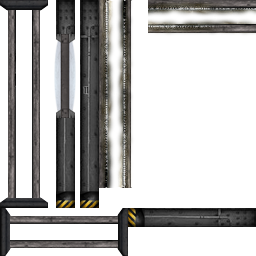
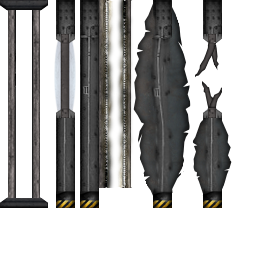
- Added sprites for damaged doors. - Fixed destroyed doors being impossible to repair because the repair tool raycasts wouldn't hit the disabled body of the door. - Destroyed doors don't cast shadows and the body isn't re-enabled until the door is restored to 50% health.

Changed region(s): [[0.0, 0.0, 1.0, 1.0]]

diff --git a/Barotrauma/BarotraumaShared/Source/Items/Components/Door.cs b/Barotrauma/BarotraumaShared/Source/Items/Components/Door.cs
@@ -25,7 +25,8 @@ namespace Barotrauma.Items.Components
 
         private PhysicsBody body;
 
-        private Sprite doorSprite, weldedSprite;
+        private Sprite doorSprite, weldedSprite, brokenSprite;
+        private bool scaleBrokenSprite, fadeBrokenSprite;
 
         private bool isHorizontal;
 
@@ -33,6 +34,28 @@ namespace Barotrauma.Items.Components
         
         private bool? predictedState;
         private float resetPredictionTimer;
+
+        private Rectangle doorRect;
+
+        private bool isBroken;
+
+        public bool IsBroken
+        {
+            get { return isBroken; }
+            set
+            {
+                if (isBroken == value) return;
+                isBroken = value;
+                if (isBroken)
+                {
+                    DisableBody();
+                }
+                else
+                {
+                    EnableBody();
+                }
+            }
+        }
 
         public PhysicsBody Body
         {
@@ -45,7 +68,7 @@ namespace Barotrauma.Items.Components
             get { return stuck; }
             set 
             {
-                if (isOpen) return;
+                if (isOpen || isBroken) return;
                 stuck = MathHelper.Clamp(value, 0.0f, 100.0f);
                 if (stuck == 0.0f) isStuck = false;
                 if (stuck == 100.0f) isStuck = true;
@@ -117,8 +140,6 @@ namespace Barotrauma.Items.Components
                 OpenState = (isOpen) ? 1.0f : 0.0f;
             }
         }
-
-        private Rectangle doorRect;
                 
         public float OpenState
         {
@@ -139,11 +160,8 @@ namespace Barotrauma.Items.Components
         public Door(Item item, XElement element)
             : base(item, element)
         {
-            //Vector2 position = new Vector2(newRect.X, newRect.Y);
-
             isHorizontal = element.GetAttributeBool("horizontal", false);
-
-           // isOpen = false;
+            
             foreach (XElement subElement in element.Elements())
             {
                 string texturePath = subElement.GetAttributeString("texture", "");
@@ -154,6 +172,11 @@ namespace Barotrauma.Items.Components
                         break;
                     case "weldedsprite":
                         weldedSprite = new Sprite(subElement, texturePath.Contains("/") ? "" : Path.GetDirectoryName(item.Prefab.ConfigFile));
+                        break;
+                    case "brokensprite":
+                        brokenSprite = new Sprite(subElement, texturePath.Contains("/") ? "" : Path.GetDirectoryName(item.Prefab.ConfigFile));
+                        scaleBrokenSprite = subElement.GetAttributeBool("scale", false);
+                        fadeBrokenSprite = subElement.GetAttributeBool("fade", false);
                         break;
                 }
             }
@@ -177,9 +200,6 @@ namespace Barotrauma.Items.Components
                 ConvertUnits.ToSimUnits(new Vector2(doorRect.Center.X, doorRect.Y - doorRect.Height / 2)),
                 0.0f);
             body.Friction = 0.5f;
-
-
-            //string spritePath = Path.GetDirectoryName(item.Prefab.ConfigFile) + "\\"+ ToolBox.GetAttributeString(element, "sprite", "");
             
             IsActive = true;
         }
@@ -187,17 +207,12 @@ namespace Barotrauma.Items.Components
         public override void Move(Vector2 amount)
         {
             base.Move(amount);
-
-            //LinkedGap.Move(amount);
-
+            
             body.SetTransform(body.SimPosition + ConvertUnits.ToSimUnits(amount), 0.0f);
 
 #if CLIENT
             UpdateConvexHulls();
 #endif
-
-            //convexHull.Move(amount);
-            //if (convexHull2 != null) convexHull2.Move(amount);
         }
 
 
@@ -216,17 +231,27 @@ namespace Barotrauma.Items.Components
 
         public override void Update(float deltaTime, Camera cam)
         {
+            if (isBroken)
+            {
+                //the door has to be restored to 50% health before collision detection on the body is re-enabled
+                if (item.Condition > 50.0f)
+                {
+                    IsBroken = false;
+                }
+                return;
+            }
+
             bool isClosing = false;
             if (!isStuck)
             {
                 if (predictedState == null)
                 {
-                    OpenState += deltaTime * ((isOpen) ? 2.0f : -2.0f);
+                    OpenState += deltaTime * (isOpen ? 2.0f : -2.0f);
                     isClosing = openState > 0.0f && openState < 1.0f && !isOpen;
                 }
                 else
                 {
-                    OpenState += deltaTime * (((bool)predictedState) ? 2.0f : -2.0f);
+                    OpenState += deltaTime * ((bool)predictedState ? 2.0f : -2.0f);
                     isClosing = openState > 0.0f && openState < 1.0f && !(bool)predictedState;
 
                     resetPredictionTimer -= deltaTime;
@@ -252,14 +277,34 @@ namespace Barotrauma.Items.Components
             //other items to an incorrect state if the prediction is wrong
             item.SendSignal(0, (isOpen) ? "1" : "0", "state_out", null);
         }
-
+        
         public override void UpdateBroken(float deltaTime, Camera cam)
         {
-            body.Enabled = false;
-
-            linkedGap.Open = 1.0f;
+            IsBroken = true;
         }
-        
+
+        private void EnableBody()
+        {
+            body.FarseerBody.IsSensor = false;
+#if CLIENT
+            UpdateConvexHulls();
+#endif
+            isBroken = false;
+        }
+
+        private void DisableBody()
+        {
+            //change the body to a sensor instead of disabling it completely, 
+            //because otherwise repairtool raycasts won't hit it
+            body.FarseerBody.IsSensor = true;
+            linkedGap.Open = 1.0f;
+            IsOpen = false;
+#if CLIENT
+            if (convexHull != null) convexHull.Enabled = false;
+            if (convexHull2 != null) convexHull2.Enabled = false;
+#endif
+        }
+
         public override void OnMapLoaded()
         {
             LinkedGap.ConnectedDoor = this;
@@ -280,19 +325,19 @@ namespace Barotrauma.Items.Components
             base.RemoveComponentSpecific();
 
             if (body != null)
-            {                
+            {
                 body.Remove();
                 body = null;
             }
 
 
-            if (linkedGap!=null) linkedGap.Remove();
+            if (linkedGap != null) linkedGap.Remove();
 
             doorSprite.Remove();
             if (weldedSprite != null) weldedSprite.Remove();
 
 #if CLIENT
-            if (convexHull!=null) convexHull.Remove();
+            if (convexHull != null) convexHull.Remove();
             if (convexHull2 != null) convexHull2.Remove();
 #endif
         }
@@ -398,8 +443,8 @@ namespace Barotrauma.Items.Components
             {
                 //clients can "predict" that the door opens/closes when a signal is received
 
-//the prediction will be reset after 1 second, setting the door to a state
-//sent by the server, or reverting it back to its old state if no msg from server was received
+                //the prediction will be reset after 1 second, setting the door to a state
+                //sent by the server, or reverting it back to its old state if no msg from server was received
 
 #if CLIENT
                 if (open != predictedState) PlaySound(ActionType.OnUse, item.WorldPosition);
@@ -437,7 +482,7 @@ namespace Barotrauma.Items.Components
         {
             SetState(msg.ReadBoolean(), true);
             Stuck = msg.ReadRangedSingle(0.0f, 100.0f, 8);
-
+            
             predictedState = null;
         }
     }

diff --git a/Barotrauma/BarotraumaClient/Source/Items/Components/Door.cs b/Barotrauma/BarotraumaClient/Source/Items/Components/Door.cs
@@ -87,11 +87,7 @@ namespace Barotrauma.Items.Components
         public void Draw(SpriteBatch spriteBatch, bool editing)
         {
             Color color = (item.IsSelected) ? Color.Green : Color.White;
-            color = color * (item.Condition / item.Prefab.Health);
-            color.A = 255;
-
-            //prefab.sprite.Draw(spriteBatch, new Vector2(rect.X, -rect.Y), new Vector2(rect.Width, rect.Height), color);
-
+            
             if (stuck > 0.0f && weldedSprite != null)
             {
                 Vector2 weldSpritePos = new Vector2(item.Rect.Center.X, item.Rect.Y - item.Rect.Height / 2.0f);
@@ -114,10 +110,25 @@ namespace Barotrauma.Items.Components
                 if (item.Submarine != null) pos += item.Submarine.DrawPosition;
                 pos.Y = -pos.Y;
 
-                spriteBatch.Draw(doorSprite.Texture, pos,
-                    new Rectangle((int)(doorSprite.SourceRect.X + doorSprite.size.X * openState), (int)doorSprite.SourceRect.Y,
-                     (int)(doorSprite.size.X * (1.0f - openState)), (int)doorSprite.size.Y),
-                    color, 0.0f, doorSprite.Origin, 1.0f, SpriteEffects.None, doorSprite.Depth);
+                if (brokenSprite == null || item.Health > 0.0f)
+                {
+                    spriteBatch.Draw(doorSprite.Texture, pos,
+                        new Rectangle((int) (doorSprite.SourceRect.X + doorSprite.size.X * openState),
+                            (int) doorSprite.SourceRect.Y,
+                            (int) (doorSprite.size.X * (1.0f - openState)), (int) doorSprite.size.Y),
+                        color, 0.0f, doorSprite.Origin, 1.0f, SpriteEffects.None, doorSprite.Depth);
+                }
+
+                if (brokenSprite != null && item.Health < item.Prefab.Health)
+                {
+                    Vector2 scale = scaleBrokenSprite ? new Vector2(1.0f, 1.0f - item.Health / item.Prefab.Health) : Vector2.One;
+                    float alpha = fadeBrokenSprite ? 1.0f - item.Health / item.Prefab.Health : 1.0f;
+                    spriteBatch.Draw(brokenSprite.Texture, pos,
+                        new Rectangle((int)(brokenSprite.SourceRect.X + brokenSprite.size.X * openState), brokenSprite.SourceRect.Y,
+                            (int)(brokenSprite.size.X * (1.0f - openState)), (int)brokenSprite.size.Y),
+                        color * alpha, 0.0f, brokenSprite.Origin, scale, SpriteEffects.None,
+                        brokenSprite.Depth);
+                }
             }
             else
             {
@@ -125,10 +136,25 @@ namespace Barotrauma.Items.Components
                 if (item.Submarine != null) pos += item.Submarine.DrawPosition;
                 pos.Y = -pos.Y;
 
-                spriteBatch.Draw(doorSprite.Texture, pos,
-                    new Rectangle(doorSprite.SourceRect.X, (int)(doorSprite.SourceRect.Y + doorSprite.size.Y * openState),
-                    (int)doorSprite.size.X, (int)(doorSprite.size.Y * (1.0f - openState))),
-                    color, 0.0f, doorSprite.Origin, 1.0f, SpriteEffects.None, doorSprite.Depth);
+                if (brokenSprite == null || item.Health > 0.0f)
+                {
+                    spriteBatch.Draw(doorSprite.Texture, pos,
+                        new Rectangle(doorSprite.SourceRect.X,
+                            (int) (doorSprite.SourceRect.Y + doorSprite.size.Y * openState),
+                            (int) doorSprite.size.X, (int) (doorSprite.size.Y * (1.0f - openState))),
+                        color, 0.0f, doorSprite.Origin, 1.0f, SpriteEffects.None, doorSprite.Depth);
+                }
+
+                if (brokenSprite != null && item.Health < item.Prefab.Health)
+                {
+                    Vector2 scale = scaleBrokenSprite ? new Vector2(1.0f - item.Health / item.Prefab.Health, 1.0f) : Vector2.One;
+                    float alpha = fadeBrokenSprite ? 1.0f - item.Health / item.Prefab.Health : 1.0f;
+                    spriteBatch.Draw(brokenSprite.Texture, pos,
+                        new Rectangle(brokenSprite.SourceRect.X, (int)(brokenSprite.SourceRect.Y + brokenSprite.size.Y * openState),
+                            (int)brokenSprite.size.X, (int)(brokenSprite.size.Y * (1.0f - openState))),
+                        color * alpha, 0.0f, brokenSprite.Origin, scale, SpriteEffects.None, brokenSprite.Depth);
+                }
+
             }
 
         }

diff --git a/Barotrauma/BarotraumaShared/Source/Map/Submarine.cs b/Barotrauma/BarotraumaShared/Source/Map/Submarine.cs
@@ -509,7 +509,7 @@ namespace Barotrauma
             }
         }
 
-        public static Body PickBody(Vector2 rayStart, Vector2 rayEnd, List<Body> ignoredBodies = null, Category? collisionCategory = null)
+        public static Body PickBody(Vector2 rayStart, Vector2 rayEnd, List<Body> ignoredBodies = null, Category? collisionCategory = null, bool ignoreSensors = true)
         {
             if (Vector2.DistanceSquared(rayStart, rayEnd) < 0.00001f)
             {
@@ -521,7 +521,7 @@ namespace Barotrauma
             GameMain.World.RayCast((fixture, point, normal, fraction) =>
             {
                 if (fixture == null ||
-                    fixture.IsSensor ||
+                    (ignoreSensors && fixture.IsSensor) ||
                     fixture.CollisionCategories == Category.None || 
                     fixture.CollisionCategories == Physics.CollisionItem) return -1;
                 
@@ -556,7 +556,7 @@ namespace Barotrauma
         /// check visibility between two points (in sim units)
         /// </summary>
         /// <returns>a physics body that was between the points (or null)</returns>
-        public static Body CheckVisibility(Vector2 rayStart, Vector2 rayEnd, bool ignoreLevel = false, bool ignoreSubs = false)
+        public static Body CheckVisibility(Vector2 rayStart, Vector2 rayEnd, bool ignoreLevel = false, bool ignoreSubs = false, bool ignoreSensors = true)
         {
             Body closestBody = null;
             float closestFraction = 1.0f;
@@ -569,7 +569,8 @@ namespace Barotrauma
             
             GameMain.World.RayCast((fixture, point, normal, fraction) =>
             {
-                if (fixture == null || fixture.IsSensor ||
+                if (fixture == null ||
+                    (ignoreSensors && fixture.IsSensor) ||
                     (!fixture.CollisionCategories.HasFlag(Physics.CollisionWall) && !fixture.CollisionCategories.HasFlag(Physics.CollisionLevel))) return -1;
 
                 if (ignoreLevel && fixture.CollisionCategories == Physics.CollisionLevel) return -1;

diff --git a/Barotrauma/BarotraumaShared/Source/Items/Components/Holdable/RepairTool.cs b/Barotrauma/BarotraumaShared/Source/Items/Components/Holdable/RepairTool.cs
@@ -176,7 +176,7 @@ namespace Barotrauma.Items.Components
             }
 
             Body targetBody = Submarine.PickBody(rayStart, rayEnd, ignoredBodies, 
-                Physics.CollisionWall | Physics.CollisionCharacter | Physics.CollisionItem | Physics.CollisionLevel);
+                Physics.CollisionWall | Physics.CollisionCharacter | Physics.CollisionItem | Physics.CollisionLevel, false);
 
             if (targetBody == null || targetBody.UserData == null) return;
 
